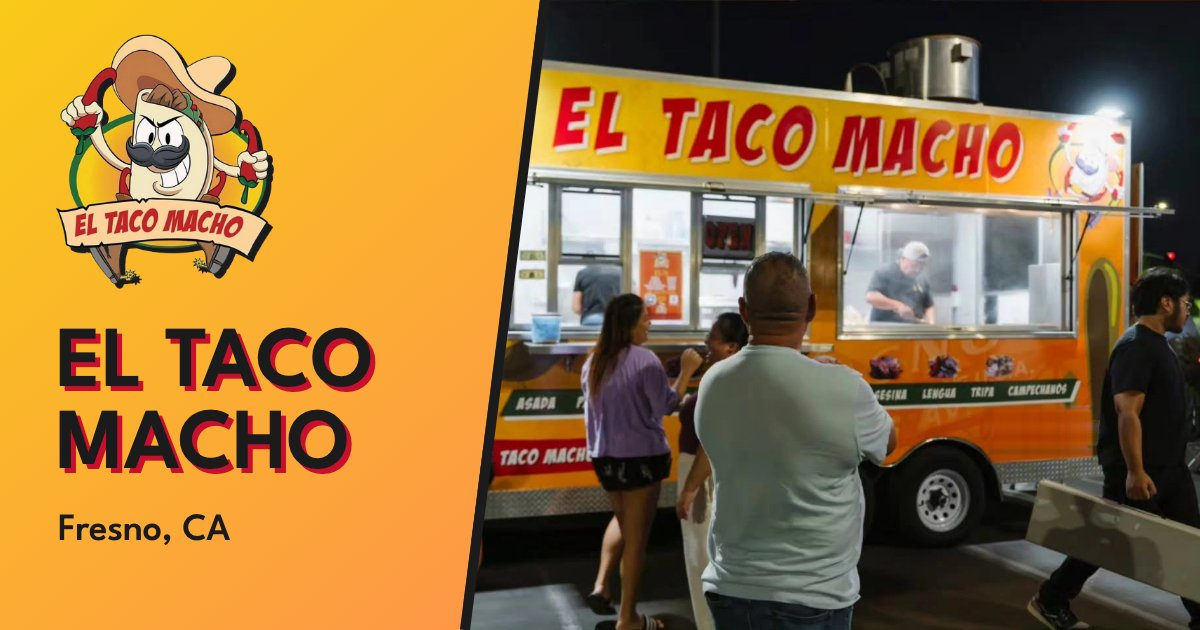
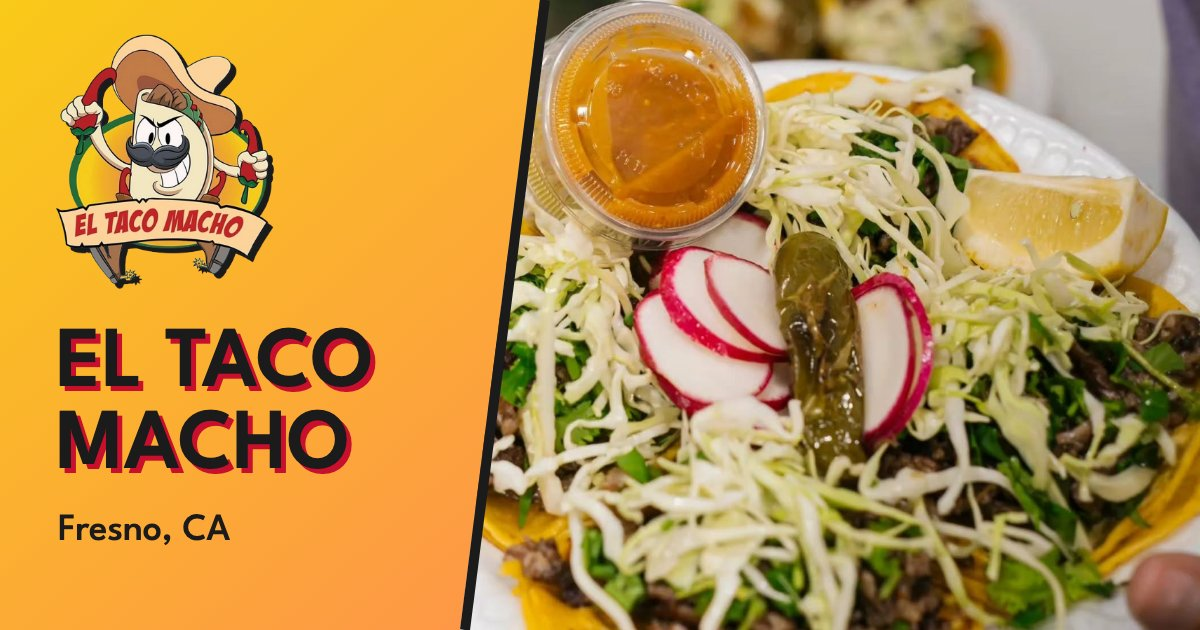
Food photos, Instagram copy, catering redesign

diff --git a/index.html b/index.html
@@ -15,7 +15,7 @@
   <meta property="og:image" content="https://eltacomachofresno.com/images/og-image.jpg">
   <meta property="og:image:width" content="1200">
   <meta property="og:image:height" content="630">
-  <meta property="og:image:alt" content="El Taco Macho logo beside the yellow truck at night, Fresno, CA">
+  <meta property="og:image:alt" content="El Taco Macho logo beside a plate of tacos, Fresno, CA">
   <meta name="twitter:card" content="summary_large_image">
 
   <link rel="icon" href="favicon-32.png" sizes="32x32" type="image/png">
@@ -98,7 +98,7 @@
           </li>
           <li>
             <svg class="icon" viewBox="0 0 24 24" aria-hidden="true"><path d="M12 21s-7-6.2-7-11.5a7 7 0 0 1 14 0C19 14.8 12 21 12 21z"/><circle cx="12" cy="9.5" r="2.5"/></svg>
-            <span>2848 W Ashlan Ave</span>
+            <span>2848 W Ashlan Ave <span class="cross">(Ashlan &amp; Marks)</span></span>
           </li>
           <li>
             <svg class="icon" viewBox="0 0 24 24" aria-hidden="true"><rect x="2.5" y="6" width="19" height="12" rx="2"/><circle cx="12" cy="12" r="2.5"/><path d="M6 9.5v5M18 9.5v5"/></svg>
@@ -114,23 +114,33 @@
   <main>
 
     <section class="carne" id="menu" aria-labelledby="carne-title">
-      <div class="container">
-        <h2 class="section-title carne-title" id="carne-title">La Carne</h2>
-        <!-- Truck menu board spells it "Sesina"; the site uses "Cecina" (see PRODUCT.md). -->
-        <ul class="meats">
-          <li>Asada</li>
-          <li>Pastor</li>
-          <li>Suadero</li>
-          <li>Pollo</li>
-          <li>Chorizo</li>
-          <li>Cabeza</li>
-          <li>Cecina</li>
-          <li>Lengua</li>
-          <li>Tripa</li>
-          <li><span class="meat-stack">Campechanos <span class="meat-note" data-i18n="carne.campechanos">mixed meats</span></span></li>
-        </ul>
-        <!-- Prices are unconfirmed: keep this line until the owner provides them. -->
-        <p class="carne-note" data-i18n="carne.prices">Order at the window and ask for today's prices.</p>
+      <div class="container carne-grid">
+        <div class="carne-copy">
+          <h2 class="section-title carne-title" id="carne-title">La Carne</h2>
+          <!-- Intro is the truck's own Instagram copy, verbatim in each language. -->
+          <p class="carne-intro" data-i18n="carne.intro">The difference is in the meat: fresh, seasoned, and grilled to order.</p>
+          <p class="carne-lead" data-i18n="carne.lead">Pick the meat for your tacos:</p>
+          <!-- Truck menu board spells it "Sesina"; the site uses "Cecina" (see PRODUCT.md). -->
+          <ul class="meats">
+            <li>Asada</li>
+            <li>Pastor</li>
+            <li>Suadero</li>
+            <li>Pollo</li>
+            <li>Chorizo</li>
+            <li>Cabeza</li>
+            <li>Cecina</li>
+            <li>Lengua</li>
+            <li>Tripa</li>
+            <li><span class="meat-stack">Campechanos <span class="meat-note" data-i18n="carne.campechanos">mixed meats</span></span></li>
+          </ul>
+          <!-- Prices are unconfirmed: keep this line until the owner provides them. -->
+          <p class="carne-note" data-i18n="carne.prices">Order at the window and ask for today's prices.</p>
+        </div>
+        <img class="carne-photo" src="images/grill-960.webp"
+             srcset="images/grill-480.webp 480w, images/grill-960.webp 960w"
+             sizes="(min-width: 900px) 380px, calc(100vw - 32px)"
+             width="960" height="1280" loading="lazy" decoding="async"
+             alt="Meat being turned with tongs on the grill, beside a row of fresh tortillas" data-i18n-alt="carne.photoAlt">
       </div>
     </section>
 
@@ -163,7 +173,7 @@
         <div class="place-card">
           <div class="find-place">
             <svg class="icon place-pin" viewBox="0 0 24 24" aria-hidden="true"><path d="M12 21s-7-6.2-7-11.5a7 7 0 0 1 14 0C19 14.8 12 21 12 21z"/><circle cx="12" cy="9.5" r="2.5"/></svg>
-            <address class="address">2848 W Ashlan Ave<br>Fresno, CA 93705</address>
+            <address class="address">2848 W Ashlan Ave<br>Fresno, CA 93705<br><span class="cross">(Ashlan &amp; Marks)</span></address>
             <a class="text-link" href="https://maps.app.goo.gl/c8hriSUc7dh7fYxA7" target="_blank" rel="noopener" data-i18n="hero.directions">Get Directions</a>
           </div>
           <iframe class="map"
@@ -176,6 +186,12 @@
 
     <section class="events" id="eventos" aria-labelledby="events-title">
       <div class="container events-grid">
+        <img class="events-photo" src="images/taco-plate-960.webp"
+             srcset="images/taco-plate-480.webp 480w, images/taco-plate-960.webp 960w"
+             sizes="(min-width: 900px) 420px, calc(100vw - 48px)"
+             width="960" height="1280" loading="lazy" decoding="async"
+             alt="A plate of tacos topped with cabbage, cilantro, radish, a grilled chile and lime, with a cup of salsa" data-i18n-alt="events.photoAlt">
+        <div class="events-body">
         <div class="events-intro">
           <h2 class="section-title" id="events-title" data-i18n="events.title">Tacos for Any Event</h2>
           <p class="events-copy" data-i18n="events.copy">Birthdays, quinceañeras, weddings, work parties. We bring the truck and the grill.</p>
@@ -196,6 +212,7 @@
             </a>
           </li>
         </ul>
+        </div>
       </div>
     </section>
 
@@ -208,7 +225,7 @@
         <p class="footer-brand">El Taco Macho</p>
         <p>Sabor de México • Made in Fresno</p>
       </div>
-      <p>2848 W Ashlan Ave<br>Fresno, CA 93705<br><span data-hours="summary">Tue–Fri, 7–11 PM</span></p>
+      <p>2848 W Ashlan Ave (Ashlan &amp; Marks)<br>Fresno, CA 93705<br><span data-hours="summary">Tue–Fri, 7–11 PM</span></p>
       <div>
         <p>Cash App <a href="https://cash.app/$eltacomacho" target="_blank" rel="noopener">$eltacomacho</a></p>
         <p class="social">

diff --git a/css/styles.css b/css/styles.css
@@ -329,6 +329,20 @@ address { font-style: normal; }
   color: var(--muted-nopal);
 }
 .carne-note { margin-top: var(--space-lg); font-size: var(--step-1); font-weight: 500; color: var(--muted-nopal); }
+.carne-grid { display: grid; gap: var(--space-xl); }
+.carne-intro { margin-top: var(--space-md); max-width: 36ch; font-size: var(--step-1); font-weight: 500; line-height: 1.35; }
+.carne-lead { margin-top: var(--space-lg); font-weight: 600; color: var(--sun); }
+.carne-lead + .meats { margin-top: var(--space-xs); }
+/* The grill photo wears the band's crema border, like a print pinned to the menu board */
+.carne-photo {
+  width: 100%;
+  aspect-ratio: 4 / 3;
+  object-fit: cover;
+  object-position: 50% 42%; /* tongs and meat */
+  border: 6px solid var(--crema);
+  border-radius: var(--radius);
+  background: var(--rule-dark);
+}
 
 /* ---------- Find Us ---------- */
 .find {
@@ -405,6 +419,7 @@ address { font-style: normal; }
 }
 .place-pin { width: 28px; height: 28px; color: var(--sun); }
 .address { font-size: var(--step-1); font-weight: 600; line-height: 1.3; }
+.cross { font-weight: 500; white-space: nowrap; }
 .find .text-link { color: var(--sun); }
 
 .map {
@@ -416,9 +431,22 @@ address { font-style: normal; }
   background: var(--rule-dark);
 }
 
-/* ---------- Events ---------- */
-.events { padding: var(--space-section) 0; }
+/* ---------- Events: the page closes on the hero's gradient, with real tacos as a sticker ---------- */
+.events { padding: var(--space-section) 0; background: var(--brand-gradient); }
 .events-grid { display: grid; gap: var(--space-xl); }
+.events-photo {
+  justify-self: center;
+  width: calc(100% - 16px);
+  aspect-ratio: 4 / 3;
+  object-fit: cover;
+  object-position: 50% 60%; /* the plate */
+  border: 6px solid var(--crema);
+  border-radius: var(--radius);
+  rotate: -2deg; /* leans with the hero's tagline and logo */
+  filter: drop-shadow(5px 5px 0 var(--carbon));
+  background: var(--sun);
+}
+.events-body { display: grid; gap: var(--space-xl); }
 .events-copy { margin-top: var(--space-md); max-width: 34ch; font-size: var(--step-1); font-weight: 500; line-height: 1.35; }
 
 .events-note { margin-top: var(--space-md); max-width: 34ch; font-weight: 600; }
@@ -433,11 +461,11 @@ address { font-style: normal; }
   text-decoration: none;
   transition: background-color .2s var(--ease-out);
 }
-.call:hover { background: color-mix(in srgb, var(--sun) 35%, var(--crema)); }
-.call .icon { width: 28px; height: 28px; color: var(--chile); }
+.call:hover { background: color-mix(in srgb, var(--crema) 40%, transparent); }
+.call .icon { width: 28px; height: 28px; color: var(--carbon); }
 .call-text { display: grid; }
-.call-label { font-weight: 500; color: var(--muted-light); }
-.call-number { font-size: var(--step-2); font-weight: 600; color: var(--chile); line-height: 1.1; }
+.call-label { font-weight: 500; color: var(--carbon); }
+.call-number { font-size: var(--step-2); font-weight: 600; color: var(--carbon); line-height: 1.1; } /* chile fails on the mango end */
 
 /* ---------- Footer ---------- */
 .footer { background: var(--carbon); color: var(--crema); padding: var(--space-xl) 0 var(--space-lg); line-height: 1.6; }
@@ -506,7 +534,11 @@ address { font-style: normal; }
   .find-place { padding: var(--space-xl) var(--space-lg); }
   .map { aspect-ratio: auto; height: 100%; min-height: 320px; }
 
-  .events-grid { grid-template-columns: minmax(0, 1fr) minmax(0, 1fr); align-items: center; }
+  .carne-grid { grid-template-columns: minmax(0, 7fr) minmax(0, 4fr); column-gap: var(--space-xl); align-items: center; }
+  .carne-photo { aspect-ratio: 3 / 4; object-position: 50% 50%; }
+
+  .events-grid { grid-template-columns: minmax(0, 5fr) minmax(0, 7fr); column-gap: clamp(48px, 6vw, 96px); align-items: center; }
+  .events-photo { width: 100%; aspect-ratio: 4 / 5; }
 
   .footer-grid { grid-template-columns: 1.2fr 1fr 1fr; }
   .copyright { grid-column: 1 / -1; }

diff --git a/js/main.js b/js/main.js
@@ -39,6 +39,9 @@ const STRINGS = {
     "status.day": "Opens {day} at {time}",
     "status.closed": "Closed for now",
 
+    "carne.intro": "The difference is in the meat: fresh, seasoned, and grilled to order.",
+    "carne.lead": "Pick the meat for your tacos:",
+    "carne.photoAlt": "Meat being turned with tongs on the grill, beside a row of fresh tortillas",
     "carne.campechanos": "mixed meats",
     "carne.prices": "Order at the window and ask for today's prices.",
 
@@ -54,6 +57,7 @@ const STRINGS = {
     "events.title": "Tacos for Any Event",
     "events.copy": "Birthdays, quinceañeras, weddings, work parties. We bring the truck and the grill.",
     "events.note": "For events only. Order food at the truck window.",
+    "events.photoAlt": "A plate of tacos topped with cabbage, cilantro, radish, a grilled chile and lime, with a cup of salsa",
     "events.call": "Call",
 
     "footer.instagram": "El Taco Macho on Instagram",
@@ -83,6 +87,9 @@ const STRINGS = {
     "status.day": "Abre el {day} a las {time}",
     "status.closed": "Cerrado por ahora",
 
+    "carne.intro": "Aquí la diferencia está en la carne: fresca, bien sazonada y asada al momento.",
+    "carne.lead": "Escoge la carne de tus tacos:",
+    "carne.photoAlt": "Carne volteada con pinzas en el asador, junto a una fila de tortillas frescas",
     "carne.campechanos": "carnes mixtas",
     "carne.prices": "Ordena en la ventana y pregunta por los precios del día.",
 
@@ -98,6 +105,7 @@ const STRINGS = {
     "events.title": "Tacos Para Todo Tipo de Eventos",
     "events.copy": "Cumpleaños, quinceañeras, bodas, eventos de trabajo. Llevamos el camión y el asador.",
     "events.note": "Solo para eventos. Pide tu comida en la ventana del camión.",
+    "events.photoAlt": "Un plato de tacos con repollo, cilantro, rábano, chile asado y limón, con un vasito de salsa",
     "events.call": "Llamar",
 
     "footer.instagram": "El Taco Macho en Instagram",

diff --git a/PRODUCT.md b/PRODUCT.md
@@ -14,11 +14,11 @@ web
 
 ## Product Purpose
 
-The one-page site for El Taco Macho, a walk-up taco truck at 2848 W Ashlan Ave, Fresno, CA 93705. It answers, in seconds: is it open, where is it, how do I pay, and how do I book it for an event. Success: people show up at the window, and event hosts call.
+The one-page site for El Taco Macho, a walk-up taco truck at 2848 W Ashlan Ave, Fresno, CA 93705 (Ashlan & Marks). It answers, in seconds: is it open, where is it, how do I pay, and how do I book it for an event. Success: people show up at the window, and event hosts call.
 
 ## Positioning
 
-Fresh food, a deep meat menu, and a family-owned truck. Their own taglines: "Del Asador a Tu Plato" and "Sabor de México • Made in Fresno".
+Fresh food, a deep meat menu, and a family-owned truck. Their own taglines: "Del Asador a Tu Plato" and "Sabor de México • Made in Fresno". Their own claim, from their Instagram: "The difference is in the meat: fresh, seasoned, and grilled to order." / "Aquí la diferencia está en la carne: fresca, bien sazonada y asada al momento." "Grilled to order" is the truck's claim; use it verbatim and don't extend it.
 
 ## Operating Context
 
@@ -32,7 +32,8 @@ Fresh food, a deep meat menu, and a family-owned truck. Their own taglines: "Del
 
 - Static one-pager: `index.html`, `css/styles.css`, `js/main.js`. No framework and no build step. Deployed on Netlify (`netlify.toml`, publish = ".") from GitHub.
 - Everything that changes (hours, open days, notice) lives in the `SITE` config at the top of `js/main.js`. Every EN/ES string lives in its `STRINGS` object. The JSON-LD hours in `index.html` have to be updated by hand when the hours change.
-- Current sections: Hero → La Carne (meat list; nav label "Menu" / "Menú") → Find Us (hours, address, map, truck photo) → Catering/Eventos (tap-to-call) → Footer.
+- Current sections: Hero → La Carne (Instagram intro, meat list for tacos, grill photo; nav label "Menu" / "Menú") → Find Us (status, week strip, truck photo, address + map card) → Catering/Eventos (taco plate photo, tap-to-call) → Footer.
+- The two catering numbers are unlabeled until the owner confirms which is the main line ((559) 681-7250 is believed to be main; both work).
 - The meats are Asada, Pastor, Suadero, Pollo, Chorizo, Cabeza, Cecina (the truck spells it "Sesina"), Lengua, Tripa, and Campechanos (mixed meats). Prices are unconfirmed and must not be invented; the page says to ask at the window. Other menu items (burritos, quesadillas, etc.) are unconfirmed.
 - The truck wrap shows other addresses (504 E. Belmont Ave on the wrap; 1639 S. Orange on a decal). They are not the service location, and the site must never show them.
 
@@ -40,13 +41,13 @@ Fresh food, a deep meat menu, and a family-owned truck. Their own taglines: "Del
 
 - Name: El Taco Macho. Taglines "Del Asador a Tu Plato" and "Sabor de México • Made in Fresno" stay in Spanish in both languages, as do meat names, Agua de Sandía, and Tres Leches.
 - Voice: proud, warm, a little bold. Short lines, no corporate fluff.
-- Assets: the mustached-taco mascot logo (`images/el-taco-macho-logo.webp`), a night photo of the truck with customers (`images/el-taco-macho.webp`, decal painted out), favicons, and `images/og-image.jpg`.
+- Assets: the mustached-taco mascot logo (`images/el-taco-macho-logo.webp`), a night photo of the truck with customers (`images/el-taco-macho.webp`, decal painted out), a grill photo (`images/grill-480.webp`, `grill-960.webp`), a taco plate with radish and salsa (`images/taco-plate-480.webp`, `taco-plate-960.webp`), favicons, and `images/og-image.jpg` (built from the taco plate).
 - Visual identity commitments from their real branding (League Spartan, Bangers as an accent, and the sun/mango/chile/nopal/carbon/crema palette) are recorded in `SITE-CONTENT.md` and the code, not here.
 
 ## Evidence on Hand
 
-- Real: the address, hours, phone numbers, Cash App handle, social links, the mascot logo, and one truck photo.
-- Not on hand, and never to be fabricated: menu prices, food photos, reviews or testimonials, press, and customer counts.
+- Real: the address and cross streets (Ashlan & Marks), hours, phone numbers, Cash App handle, social links, the mascot logo, the truck photo, and real food photos: the grill, a taco plate (radish, salsa), and an asada/pollo plate (`images/el-taco-macho-tacos-2.jpeg`, held back for now). Original photo files are backed up outside the site.
+- Not on hand, and never to be fabricated: menu prices, reviews or testimonials, press, customer counts, and any menu items beyond tacos with the listed meats.
 
 ## Product Principles
 
